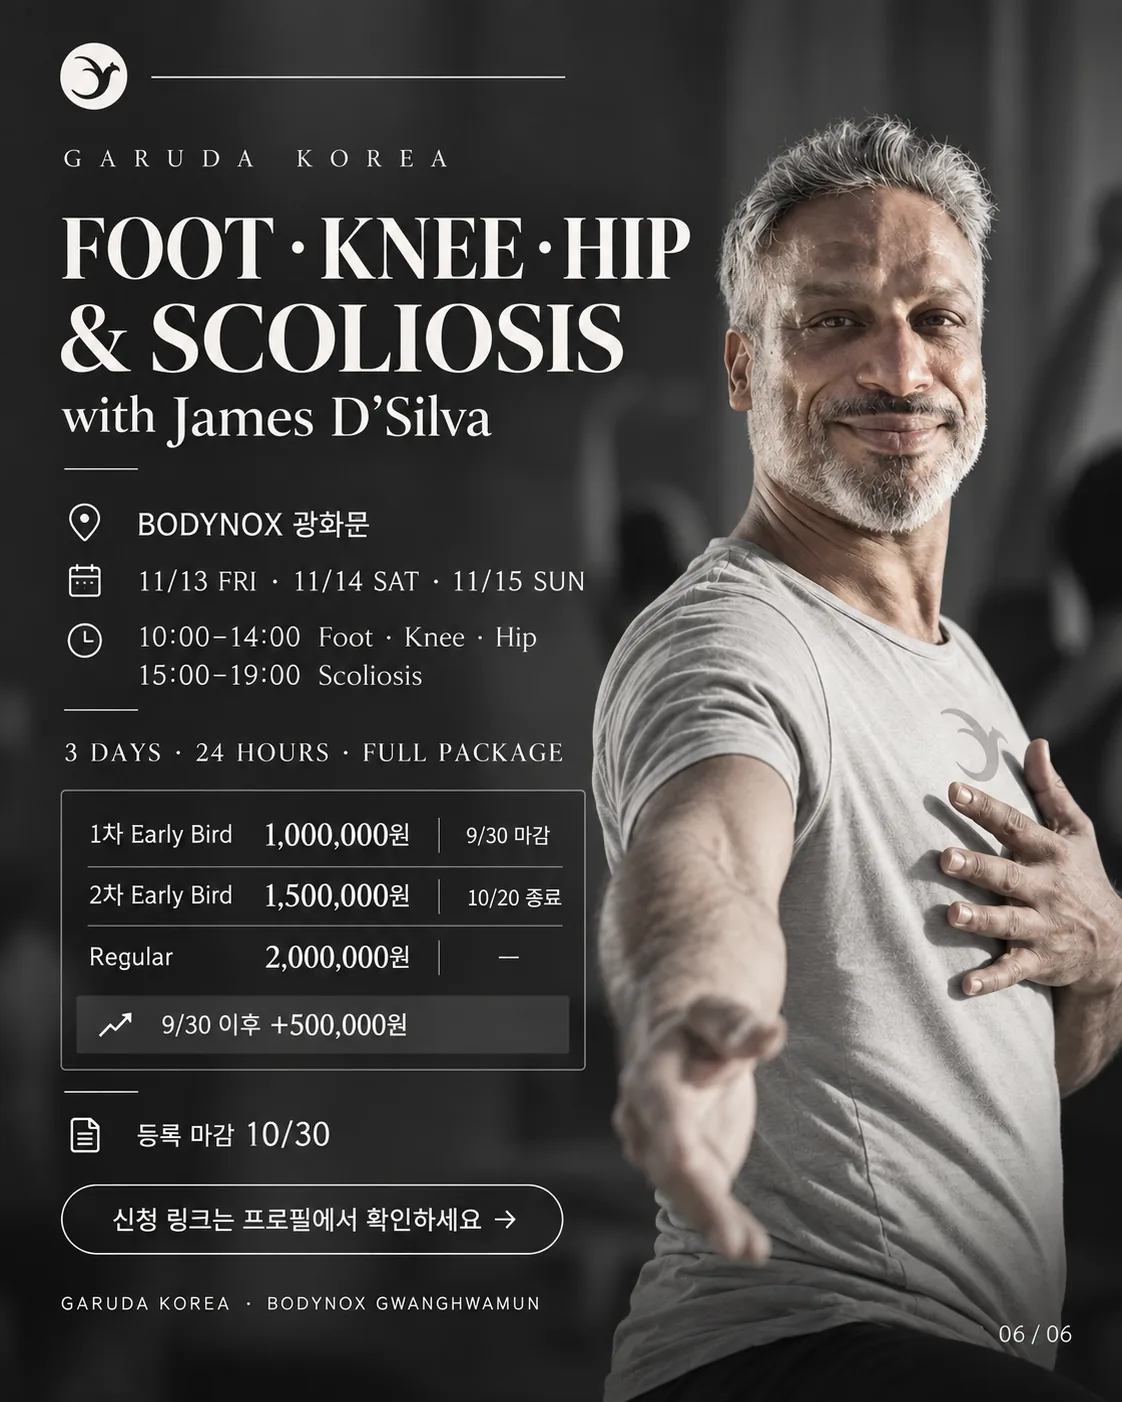
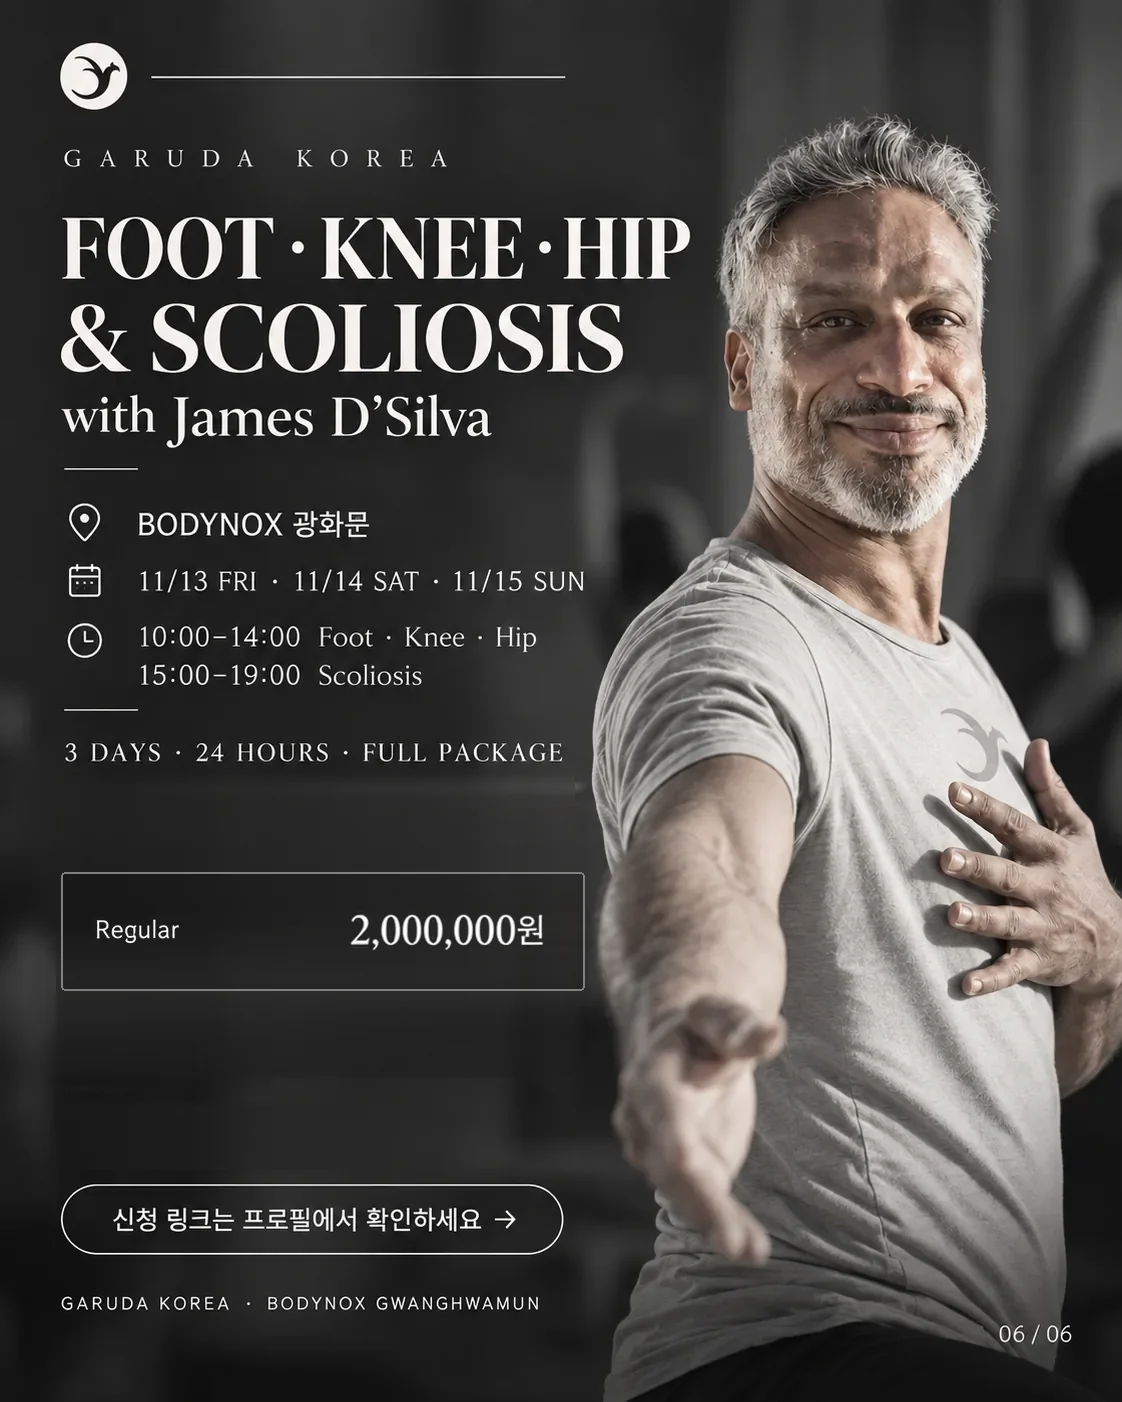
James workshop poster 6: show only the 2,000,000 won fee, drop deadline
Remove the 1st/2nd early-bird rows, the +500,000 note, and the 10/30
registration deadline from the 6th poster image; update its alt text.

diff --git a/workshop/james/index.html b/workshop/james/index.html
@@ -226,7 +226,7 @@ footer a{color:inherit;text-decoration:none}
     <img src="/assets/img/workshop/james/3.webp" width="1122" height="1402" alt="오전 워크숍 10:00–14:00 Foot · Knee · Hip" loading="lazy">
     <img src="/assets/img/workshop/james/4.webp" width="1122" height="1402" alt="오후 워크숍 15:00–19:00 Scoliosis" loading="lazy">
     <img src="/assets/img/workshop/james/5.webp" width="1122" height="1402" alt="James가 제시하는 세 가지 기본 원칙 — Breathing, Creating Space, Mobilizing" loading="lazy">
-    <img src="/assets/img/workshop/james/6.webp" width="1122" height="1402" alt="일정과 참가비 — 11/13–15 BODYNOX 광화문, 1차 얼리버드 100만원, 2차 150만원, 정상가 200만원, 등록 마감 10/30" loading="lazy">
+    <img src="/assets/img/workshop/james/6.webp" width="1122" height="1402" alt="일정과 참가비 — 11/13–15 BODYNOX 광화문, 참가비 200만원" loading="lazy">
   </div>
 
   <section class="info" id="pay">
